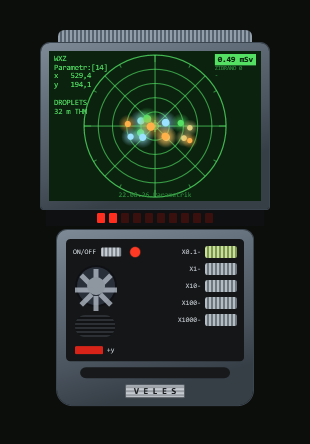
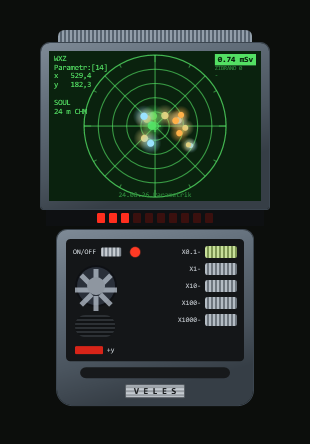
Seed the fields the documentation images are drawn from, and let CI say so
Three of the nine README images -- detector, hero and screens -- came out
different on every run of the same binary. All three compose a BubbleField,
and BubbleField seeded itself from the clock, so the bubbles landed
somewhere new each time.

The build re-renders these images and compares them against the committed
ones, which made that comparison meaningless. It also went unnoticed for as
long as it did because the step called "Fail if the committed images are
stale" printed its finding and exited zero: it had never failed a build in
its life. It has an exit code now, which is the only reason the seeding had
to come first.

BubbleField takes an optional Random, the way ShuffledDeck and Weather
already do, and passes it on to its deck -- seeding the field alone would
still have dealt the artifacts in a different order. Export gives its three
fields separate seeds so the pictures are not the same arrangement three
times over. Left null everywhere else: the app should differ between runs,
and only the documentation is pinned.

The three images are regenerated here, so the newly-armed check has
something true to compare against.

diff --git a/tests/Bubbles.Tests/BubbleFieldRegionsTests.cs b/tests/Bubbles.Tests/BubbleFieldRegionsTests.cs
@@ -132,4 +132,58 @@ public sealed class BubbleFieldRegionsTests
 
         Assert.Equal(before, after);
     }
+
+    // ---- seeding -------------------------------------------------------------------------
+
+    /// <summary>The documentation images are re-rendered on every build and compared against the
+    /// committed ones. That comparison is only meaningful if the same field comes out the same
+    /// way twice, which it did not while the field seeded itself from the clock.</summary>
+    [Fact]
+    public void A_seeded_field_lays_out_the_same_way_twice()
+    {
+        static IReadOnlyList<(double X, double Y, double R)> Lay(int seed)
+        {
+            var settings = new Settings { BubbleCount = 12, MinRadius = 20, MaxRadius = 60 };
+            var field = new BubbleField(settings, new Random(seed));
+            field.SetRegions(new[] { new Rect(0, 0, 800, 600) });
+            field.Resize(new Size(800, 600));
+            return field.Bubbles.Select(b => (b.X, b.Y, b.Radius)).ToList();
+        }
+
+        Assert.Equal(Lay(21), Lay(21));
+    }
+
+    [Fact]
+    public void Different_seeds_lay_out_differently()
+    {
+        static IReadOnlyList<(double X, double Y)> Lay(int seed)
+        {
+            var settings = new Settings { BubbleCount = 12, MinRadius = 20, MaxRadius = 60 };
+            var field = new BubbleField(settings, new Random(seed));
+            field.SetRegions(new[] { new Rect(0, 0, 800, 600) });
+            field.Resize(new Size(800, 600));
+            return field.Bubbles.Select(b => (b.X, b.Y)).ToList();
+        }
+
+        // Export gives its three fields separate seeds so the pictures are not the same
+        // arrangement three times over.
+        Assert.NotEqual(Lay(21), Lay(22));
+    }
+
+    [Fact]
+    public void An_unseeded_field_is_still_its_own()
+    {
+        // The app must keep varying between runs; only the export is pinned.
+        var settings = new Settings { BubbleCount = 24, MinRadius = 20, MaxRadius = 60 };
+
+        static IReadOnlyList<(double X, double Y)> Lay(Settings s)
+        {
+            var field = new BubbleField(s);
+            field.SetRegions(new[] { new Rect(0, 0, 800, 600) });
+            field.Resize(new Size(800, 600));
+            return field.Bubbles.Select(b => (b.X, b.Y)).ToList();
+        }
+
+        Assert.NotEqual(Lay(settings), Lay(settings));
+    }
 }

diff --git a/src/Bubbles/Zone/BubbleField.cs b/src/Bubbles/Zone/BubbleField.cs
@@ -32,13 +32,27 @@ public sealed class Bubble
 /// one. See <see cref="MonitorRegions"/>.</summary>
 public sealed class BubbleField
 {
-    private readonly Random _rng = new();
+    private readonly Random _rng;
     private readonly List<Bubble> _bubbles = new();
     private IReadOnlyList<Rect> _regions = Array.Empty<Rect>();
-    private readonly ShuffledDeck _skins = new();
+    private readonly ShuffledDeck _skins;
     private Settings _settings;
 
-    public BubbleField(Settings settings) => _settings = settings;
+    /// <summary>A field of bubbles.
+    ///
+    /// <paramref name="random"/> is for callers that need the same field twice: the
+    /// documentation images are re-rendered on every build and compared against the committed
+    /// ones, so a field seeded from the clock made three of them differ on every run and the
+    /// comparison meaningless. Left null in the app, where every run should differ.
+    ///
+    /// The deck is seeded from the same source, or every artifact would still arrive in a
+    /// different order.</summary>
+    public BubbleField(Settings settings, Random? random = null)
+    {
+        _settings = settings;
+        _rng = random ?? new Random();
+        _skins = new ShuffledDeck(random);
+    }
 
     public IReadOnlyList<Bubble> Bubbles => _bubbles;
     public Size Bounds { get; private set; }

diff --git a/src/Bubbles/Export.cs b/src/Bubbles/Export.cs
@@ -89,7 +89,7 @@ internal static class Export
             MinRadius = 40,
             MaxRadius = 130,
         };
-        var field = new BubbleField(settings) { SkinCount = Artifacts.Count };
+        var field = new BubbleField(settings, new Random(21)) { SkinCount = Artifacts.Count };
         field.SetRegions(new[] { panel });
         field.Resize(new Size(panel.Width, panel.Height));
 
@@ -224,7 +224,7 @@ internal static class Export
             MinRadius = 50,
             MaxRadius = 140,
         };
-        var field = new BubbleField(settings) { SkinCount = Artifacts.Count };
+        var field = new BubbleField(settings, new Random(22)) { SkinCount = Artifacts.Count };
         field.SetRegions(new[] { shot });
         field.Resize(new Size(w, h));
 
@@ -339,7 +339,7 @@ internal static class Export
 
         // Density is the setting's own doing: a count per baseline screen, dealt by area.
         var settings = new Settings { BubbleCount = 22, MinRadius = 26, MaxRadius = 74 };
-        var field = new BubbleField(settings) { SkinCount = Artifacts.Count };
+        var field = new BubbleField(settings, new Random(23)) { SkinCount = Artifacts.Count };
         field.SetRegions(regions);
         field.Resize(new Size(w, h));
 
